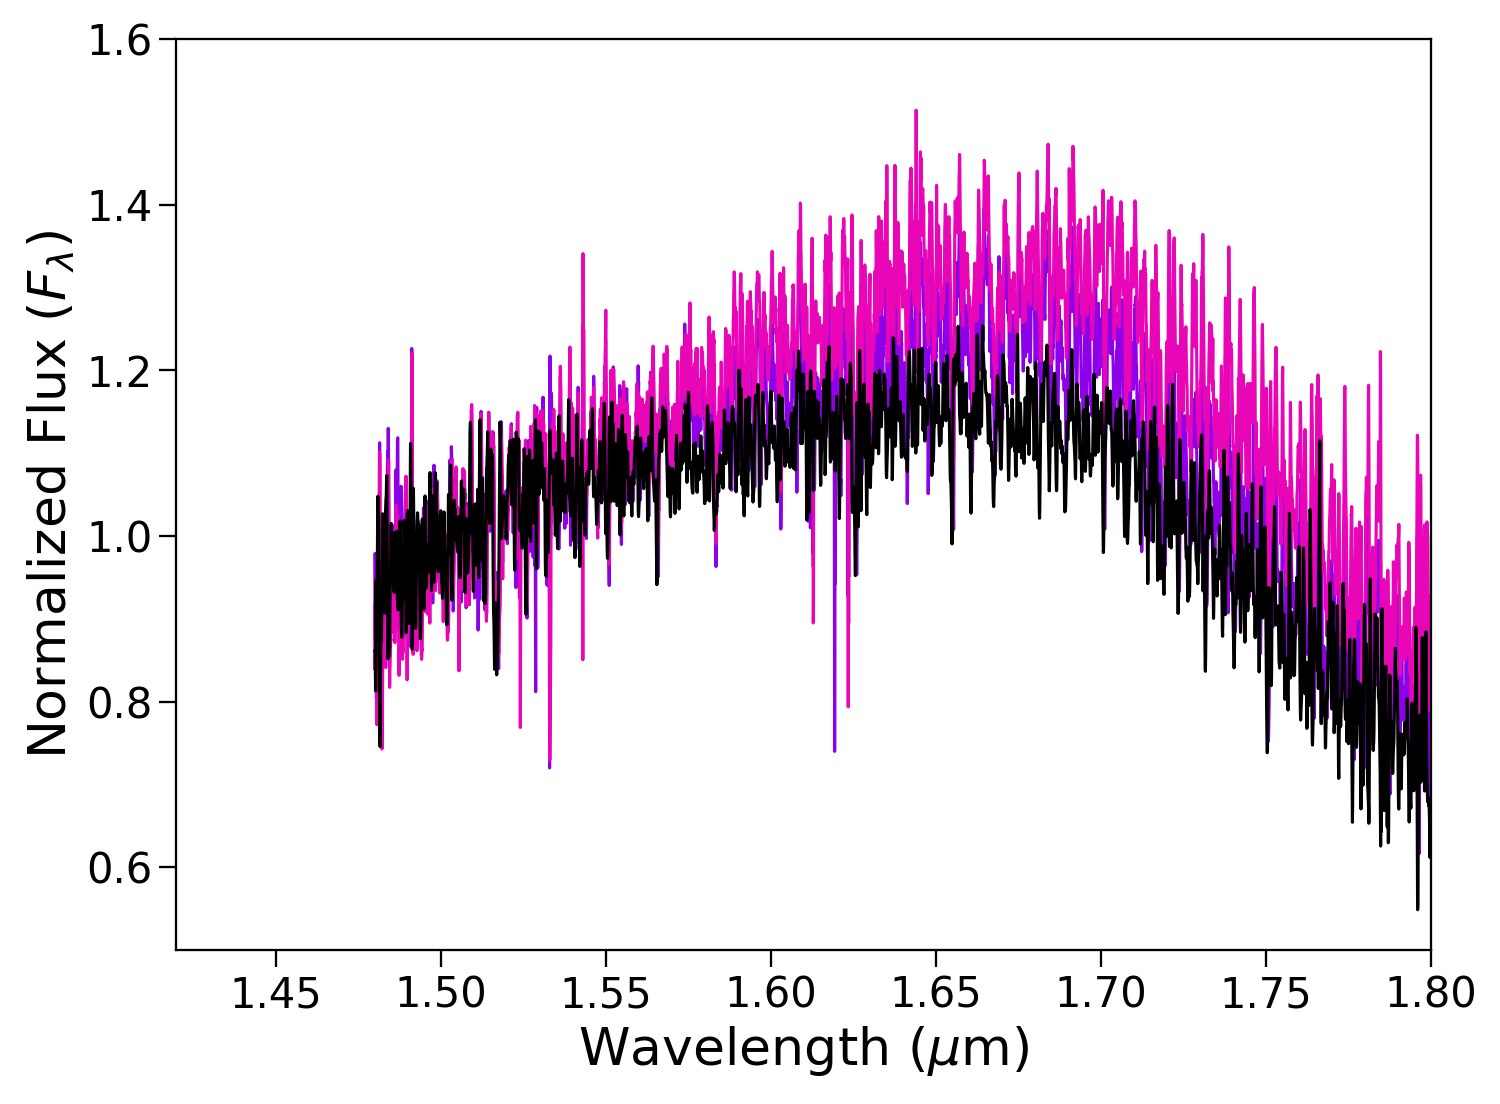
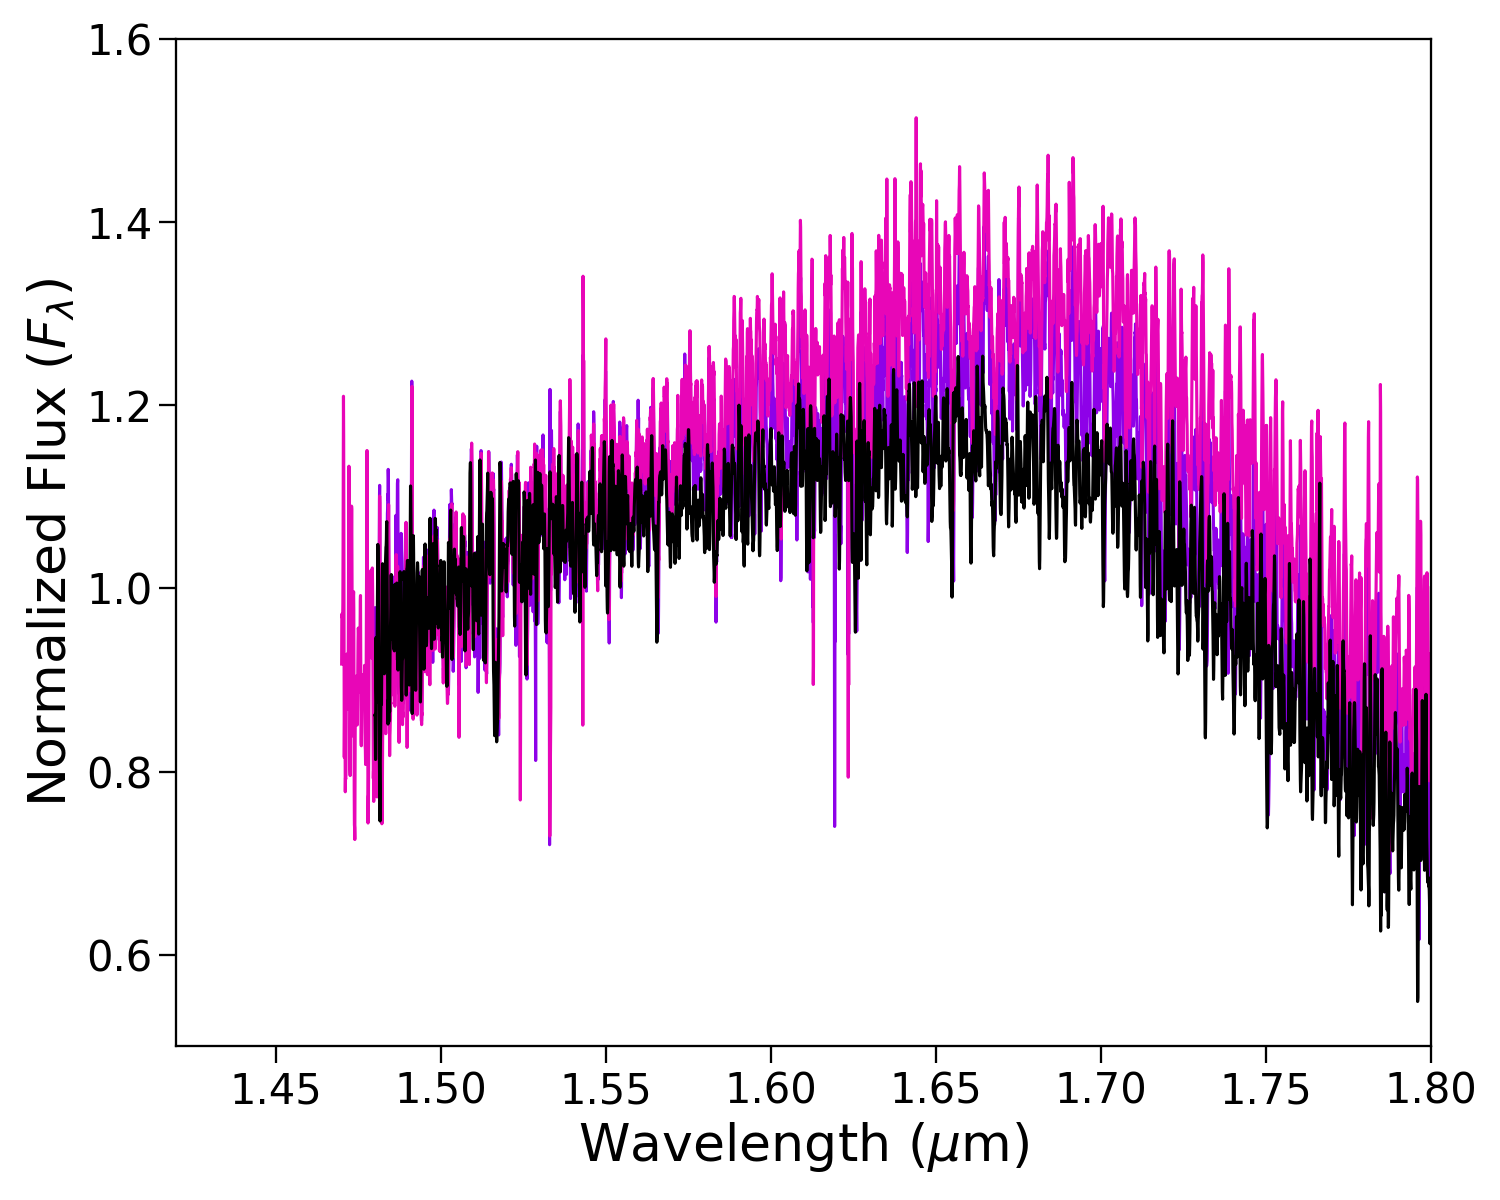
remade plots for Lbol comp with fixed spectra for 2154

diff --git a/Habnd_Lbol.py b/Habnd_Lbol.py
@@ -16,18 +16,13 @@ df_2235 = pd.read_csv('Data/lbol_comp/Lbol2235-5906 (M8.5beta) SED.txt', sep=" "
                        names=["w", "f", "err"])
 df_2235_phot = pd.read_csv('Data/lbol_comp/Lbol2235-5906 (M8.5beta) phot.txt', sep=" ", comment='#', header=None,
                             names=["w", "f", "err"])
-df_2154 = pd.read_csv('Data/lbol_comp/cleanLbolFIRE2154-7459_SED_03222018.txt', sep="\t", comment='#', header=1,
+df_2154 = pd.read_csv('Data/lbol_comp/Split2154-7459 (M9.5beta) SED.txt', sep=" ", comment='#', header=None,
                        names=["w", "f", "err"])
-df_2154_phot = pd.read_csv('Data/lbol_comp/LbolFIRE2154-7459_phot_03222018.txt', sep="\t", comment='#', header=None,
+df_2154_phot = pd.read_csv('Data/lbol_comp/Split2154-7459 (M9.5beta) phot.txt', sep=" ", comment='#', header=None,
                             names=["w", "f", "err"])
 
-# -------------------------------------------------------------------------------------
-# ---------------------- Remove Tails ------------------------------------------------
-# -------------------------------------------------------------------------------------
-df_2154 = df_2154[(df_2154['w'] > 0.81) & (df_2154['w'] <= 3)]
-
 # -------------- Drop bad points --------------
-df_2154 = df_2154[(df_2154['w'] >= 1.42) & (df_2154['w'] <= 1.80)]  # May not need this is we decide to smooth a bit
+df_2154 = df_2154[(df_2154['w'] >= 1.47) & (df_2154['w'] <= 1.80)]  # May not need this is we decide to smooth a bit
 df_2154 = df_2154.drop(df_2154['f'].argmin())
 
 df_2235 = df_2235[(df_2235['w'] >= 1.42) & (df_2235['w'] <= 1.80)]
@@ -72,6 +67,12 @@ ax1.plot(df_2235['w'], norm_df_2235 + 0.6, c='#8E01E8')
 ax1.plot(df_2154['w'], norm_df_2154 + 1.2, c='#E806B7')
 
 # ------- Label Features --------------------------
+H2O1 = pd.DataFrame()
+H2O1['x'] = [1.3, 1.51]
+H2O1['y'] = [2.6, 2.6]
+plt.plot(H2O1['x'], H2O1['y'], color='k')
+ax1.annotate('H$_\mathrm{2}$O', xy=(1.45, 2.65), color='k', fontsize=15)
+
 FeH = pd.DataFrame()
 FeH['x'] = [1.581, 1.66]
 FeH['y'] = [2.75, 2.75]
@@ -82,15 +83,26 @@ FeHd['x'] = [1.581, 1.581]
 FeHd['y'] = [2.6, 2.75]
 plt.plot(FeHd['x'], FeHd['y'], color='k')
 
-CH4 = pd.DataFrame()
-CH4['x'] = [1.67, 1.75]
-CH4['y'] = [2.8, 2.8]
-plt.plot(CH4['x'], CH4['y'], color='k')
-ax1.annotate('CH$_\mathrm{4}$', xy=(1.7, 2.82), color='k', fontsize=15)
-CH4d = pd.DataFrame()
-CH4d['x'] = [1.67, 1.67]
-CH4d['y'] = [2.65, 2.8]
-plt.plot(CH4d['x'], CH4d['y'], color='k')
+H2O = pd.DataFrame()
+H2O['x'] = [1.75, 2.05]
+H2O['y'] = [2.8, 2.8]
+plt.plot(H2O['x'], H2O['y'], color='k')
+ax1.annotate('H$_\mathrm{2}$O', xy=(1.76, 2.82), color='k', fontsize=15)
+H2Od = pd.DataFrame()
+H2Od['x'] = [1.75, 1.75]
+H2Od['y'] = [2.65, 2.8]
+plt.plot(H2Od['x'], H2Od['y'], color='k')
+
+
+# CH4 = pd.DataFrame()
+# CH4['x'] = [1.67, 1.75]
+# CH4['y'] = [2.8, 2.8]
+# plt.plot(CH4['x'], CH4['y'], color='k')
+# ax1.annotate('CH$_\mathrm{4}$', xy=(1.7, 2.82), color='k', fontsize=15)
+# CH4d = pd.DataFrame()
+# CH4d['x'] = [1.67, 1.67]
+# CH4d['y'] = [2.65, 2.8]
+# plt.plot(CH4d['x'], CH4d['y'], color='k')
 
 plt.tight_layout()
 plt.savefig('Figures/HbandLbol.png', dpi=150)

diff --git a/Lbol_comparison_overall.py b/Lbol_comparison_overall.py
@@ -16,15 +16,20 @@ df_2235 = pd.read_csv('Data/lbol_comp/Lbol2235-5906 (M8.5beta) SED.txt', sep=" "
                        names=["w", "f", "err"])
 df_2235_phot = pd.read_csv('Data/lbol_comp/Lbol2235-5906 (M8.5beta) phot.txt', sep=" ", comment='#', header=None,
                             names=["w", "f", "err"])
-df_2154 = pd.read_csv('Data/lbol_comp/LbolFIRE2154-7459_SED_03222018.txt', sep="\t", comment='#', header=1,
+df_2154 = pd.read_csv('Data/lbol_comp/Split2154-7459 (M9.5beta) SED.txt', sep=" ", comment='#', header=None,
                        names=["w", "f", "err"])
-df_2154_phot = pd.read_csv('Data/lbol_comp/LbolFIRE2154-7459_phot_03222018.txt', sep="\t", comment='#', header=None,
+df_2154_phot = pd.read_csv('Data/lbol_comp/Split2154-7459 (M9.5beta) phot.txt', sep=" ", comment='#', header=None,
                             names=["w", "f", "err"])
 
-# -------------------------------------------------------------------------------------
-# ---------------------- Remove Tails ------------------------------------------------
-# -------------------------------------------------------------------------------------
-df_2154 = df_2154[(df_2154['w'] > 0.81) & (df_2154['w'] <= 3)]
+
+# df_2154o = pd.read_csv('Data/lbol_comp/LbolFIRE2154-7459_SED_03222018.txt', sep="\t", comment='#', header=1,
+#                        names=["w", "f", "err"])
+# df_2154o_phot = pd.read_csv('Data/lbol_comp/LbolFIRE2154-7459_phot_03222018.txt', sep="\t", comment='#', header=None,
+#                             names=["w", "f", "err"])
+# # -------------------------------------------------------------------------------------
+# # ---------------------- Remove Tails ------------------------------------------------
+# # -------------------------------------------------------------------------------------
+# df_2154o = df_2154o[(df_2154o['w'] > 0.81) & (df_2154o['w'] <= 3)]
 
 # -------------------------------------------------------------------------------------
 # ------------------- Plotting: Field Comparison of similar Lbol ----------------------
@@ -73,7 +78,7 @@ ax1.annotate('$L_\mathrm{bol}: -3.27 \pm 0.19$', xy=(1.3, 3.4*10**(-16)), color=
 # J2154
 ax1.annotate('J2154-7459 (M9.5 $\\beta$)', xy=(0.8, 4*10**(-17)), color='#E806B7', fontsize=15)
 ax1.annotate('Age: 41-49 Myr', xy=(0.8, 2.5*10**(-17)), color='#E806B7', fontsize=15)
-ax1.annotate('$L_\mathrm{bol}: -3.22 \pm 0.29$', xy=(0.8, 1.6*10**(-17)), color='#E806B7', fontsize=15)
+ax1.annotate('$L_\mathrm{bol}: -3.20 \pm 0.29$', xy=(0.8, 1.6*10**(-17)), color='#E806B7', fontsize=15)
 
 plt.tight_layout()
 plt.savefig('Figures/Lbol_comparison.png')

diff --git a/Kband_Lbol.py b/Kband_Lbol.py
@@ -16,15 +16,10 @@ df_2235 = pd.read_csv('Data/lbol_comp/Lbol2235-5906 (M8.5beta) SED.txt', sep=" "
                        names=["w", "f", "err"])
 df_2235_phot = pd.read_csv('Data/lbol_comp/Lbol2235-5906 (M8.5beta) phot.txt', sep=" ", comment='#', header=None,
                             names=["w", "f", "err"])
-df_2154 = pd.read_csv('Data/lbol_comp/cleanLbolFIRE2154-7459_SED_03222018.txt', sep="\t", comment='#', header=1,
+df_2154 = pd.read_csv('Data/lbol_comp/Split2154-7459 (M9.5beta) SED.txt', sep=" ", comment='#', header=None,
                        names=["w", "f", "err"])
-df_2154_phot = pd.read_csv('Data/lbol_comp/LbolFIRE2154-7459_phot_03222018.txt', sep="\t", comment='#', header=None,
+df_2154_phot = pd.read_csv('Data/lbol_comp/Split2154-7459 (M9.5beta) phot.txt', sep=" ", comment='#', header=None,
                             names=["w", "f", "err"])
-
-# -------------------------------------------------------------------------------------
-# ---------------------- Remove Tails ------------------------------------------------
-# -------------------------------------------------------------------------------------
-df_2154 = df_2154[(df_2154['w'] > 0.81) & (df_2154['w'] <= 3)]
 
 # -------------------------------------------------------------------------------------
 # ------------------------- Normalize the spectra -------------------------------------
@@ -64,16 +59,31 @@ ax1.plot(df_2154['w'], norm_df_2154 + 1.5, c='#E806B7')
 
 # ------- Label Features --------------------------
 H2O = pd.DataFrame()
-H2O['x'] = [2.00, 2.20]
+H2O['x'] = [2.00, 2.05]
 H2O['y'] = [2.84, 2.84]
 plt.plot(H2O['x'], H2O['y'], color='k')
-ax1.text(0.25, 0.825, 'H$_\mathrm{2} $O', transform=ax1.transAxes, color='k', fontsize=15)
+ax1.annotate('H$_\mathrm{2}$O', xy=(2.02, 2.87), color='k', fontsize=15)
 
 CIA_H2 = pd.DataFrame()
 CIA_H2['x'] = [2.01, 2.34]
 CIA_H2['y'] = [3.2, 3.2]
 plt.plot(CIA_H2['x'], CIA_H2['y'], color='k')
 ax1.text(0.45, 0.925, 'CIA H$_\mathrm{2} $', transform=ax1.transAxes, color='k', fontsize=15)
+
+NaI = pd.DataFrame()
+NaI['x'] = [2.20, 2.211]
+NaI['y'] = [0.7, 0.7]
+plt.plot(NaI['x'], NaI['y'], color='k')
+ax1.annotate('Na$\,$I', xy=(2.195, .55), color='k', fontsize=15)
+# ----- Making each of the vertical lines on each end --------
+NaId = pd.DataFrame()
+NaId['x'] = [2.20, 2.20]
+NaId['y'] = [0.7, 0.8]
+plt.plot(NaId['x'], NaId['y'], color='k')
+NaId2 = pd.DataFrame()
+NaId2['x'] = [2.211, 2.211]
+NaId2['y'] = [0.7, 0.8]
+plt.plot(NaId2['x'], NaId2['y'], color='k')
 
 CO = pd.DataFrame()
 CO['x'] = [2.295, 2.34]

diff --git a/Jband_Lbol.py b/Jband_Lbol.py
@@ -16,17 +16,15 @@ df_2235 = pd.read_csv('Data/lbol_comp/Lbol2235-5906 (M8.5beta) SED.txt', sep=" "
                        names=["w", "f", "err"])
 df_2235_phot = pd.read_csv('Data/lbol_comp/Lbol2235-5906 (M8.5beta) phot.txt', sep=" ", comment='#', header=None,
                             names=["w", "f", "err"])
-df_2154 = pd.read_csv('Data/lbol_comp/cleanLbolFIRE2154-7459_SED_03222018.txt', sep="\t", comment='#', header=1,
+df_2154 = pd.read_csv('Data/lbol_comp/Split2154-7459 (M9.5beta) SED.txt', sep=" ", comment='#', header=None,
                        names=["w", "f", "err"])
-df_2154_phot = pd.read_csv('Data/lbol_comp/LbolFIRE2154-7459_phot_03222018.txt', sep="\t", comment='#', header=None,
+df_2154_phot = pd.read_csv('Data/lbol_comp/Split2154-7459 (M9.5beta) phot.txt', sep=" ", comment='#', header=None,
                             names=["w", "f", "err"])
 
-# -------------------------------------------------------------------------------------
-# ---------------------- Remove Tails ------------------------------------------------
-# -------------------------------------------------------------------------------------
-df_2154 = df_2154[(df_2154['w'] > 0.81) & (df_2154['w'] <= 3)]
 
 # -------------- Drop bad points --------------
+df_2154 = df_2154.drop(df_2154['f'].argmax())
+df_2154 = df_2154.drop(df_2154['f'].argmax())
 df_2154 = df_2154.drop(df_2154['f'].argmax())
 # -------------------------------------------------------------------------------------
 # ------------------------- Normalize the spectra -------------------------------------

diff --git a/Yband_Lbol.py b/Yband_Lbol.py
@@ -16,15 +16,10 @@ df_2235 = pd.read_csv('Data/lbol_comp/Lbol2235-5906 (M8.5beta) SED.txt', sep=" "
                        names=["w", "f", "err"])
 df_2235_phot = pd.read_csv('Data/lbol_comp/Lbol2235-5906 (M8.5beta) phot.txt', sep=" ", comment='#', header=None,
                             names=["w", "f", "err"])
-df_2154 = pd.read_csv('Data/lbol_comp/LbolFIRE2154-7459_SED_03222018.txt', sep="\t", comment='#', header=1,
+df_2154 = pd.read_csv('Data/lbol_comp/Split2154-7459 (M9.5beta) SED.txt', sep=" ", comment='#', header=None,
                        names=["w", "f", "err"])
-df_2154_phot = pd.read_csv('Data/lbol_comp/LbolFIRE2154-7459_phot_03222018.txt', sep="\t", comment='#', header=None,
+df_2154_phot = pd.read_csv('Data/lbol_comp/Split2154-7459 (M9.5beta) phot.txt', sep=" ", comment='#', header=None,
                             names=["w", "f", "err"])
-
-# -------------------------------------------------------------------------------------
-# ---------------------- Remove Tails ------------------------------------------------
-# -------------------------------------------------------------------------------------
-df_2154 = df_2154[(df_2154['w'] > 0.81) & (df_2154['w'] <= 3)]
 
 # -------------------------------------------------------------------------------------
 # ------------------------- Normalize the spectra -------------------------------------
